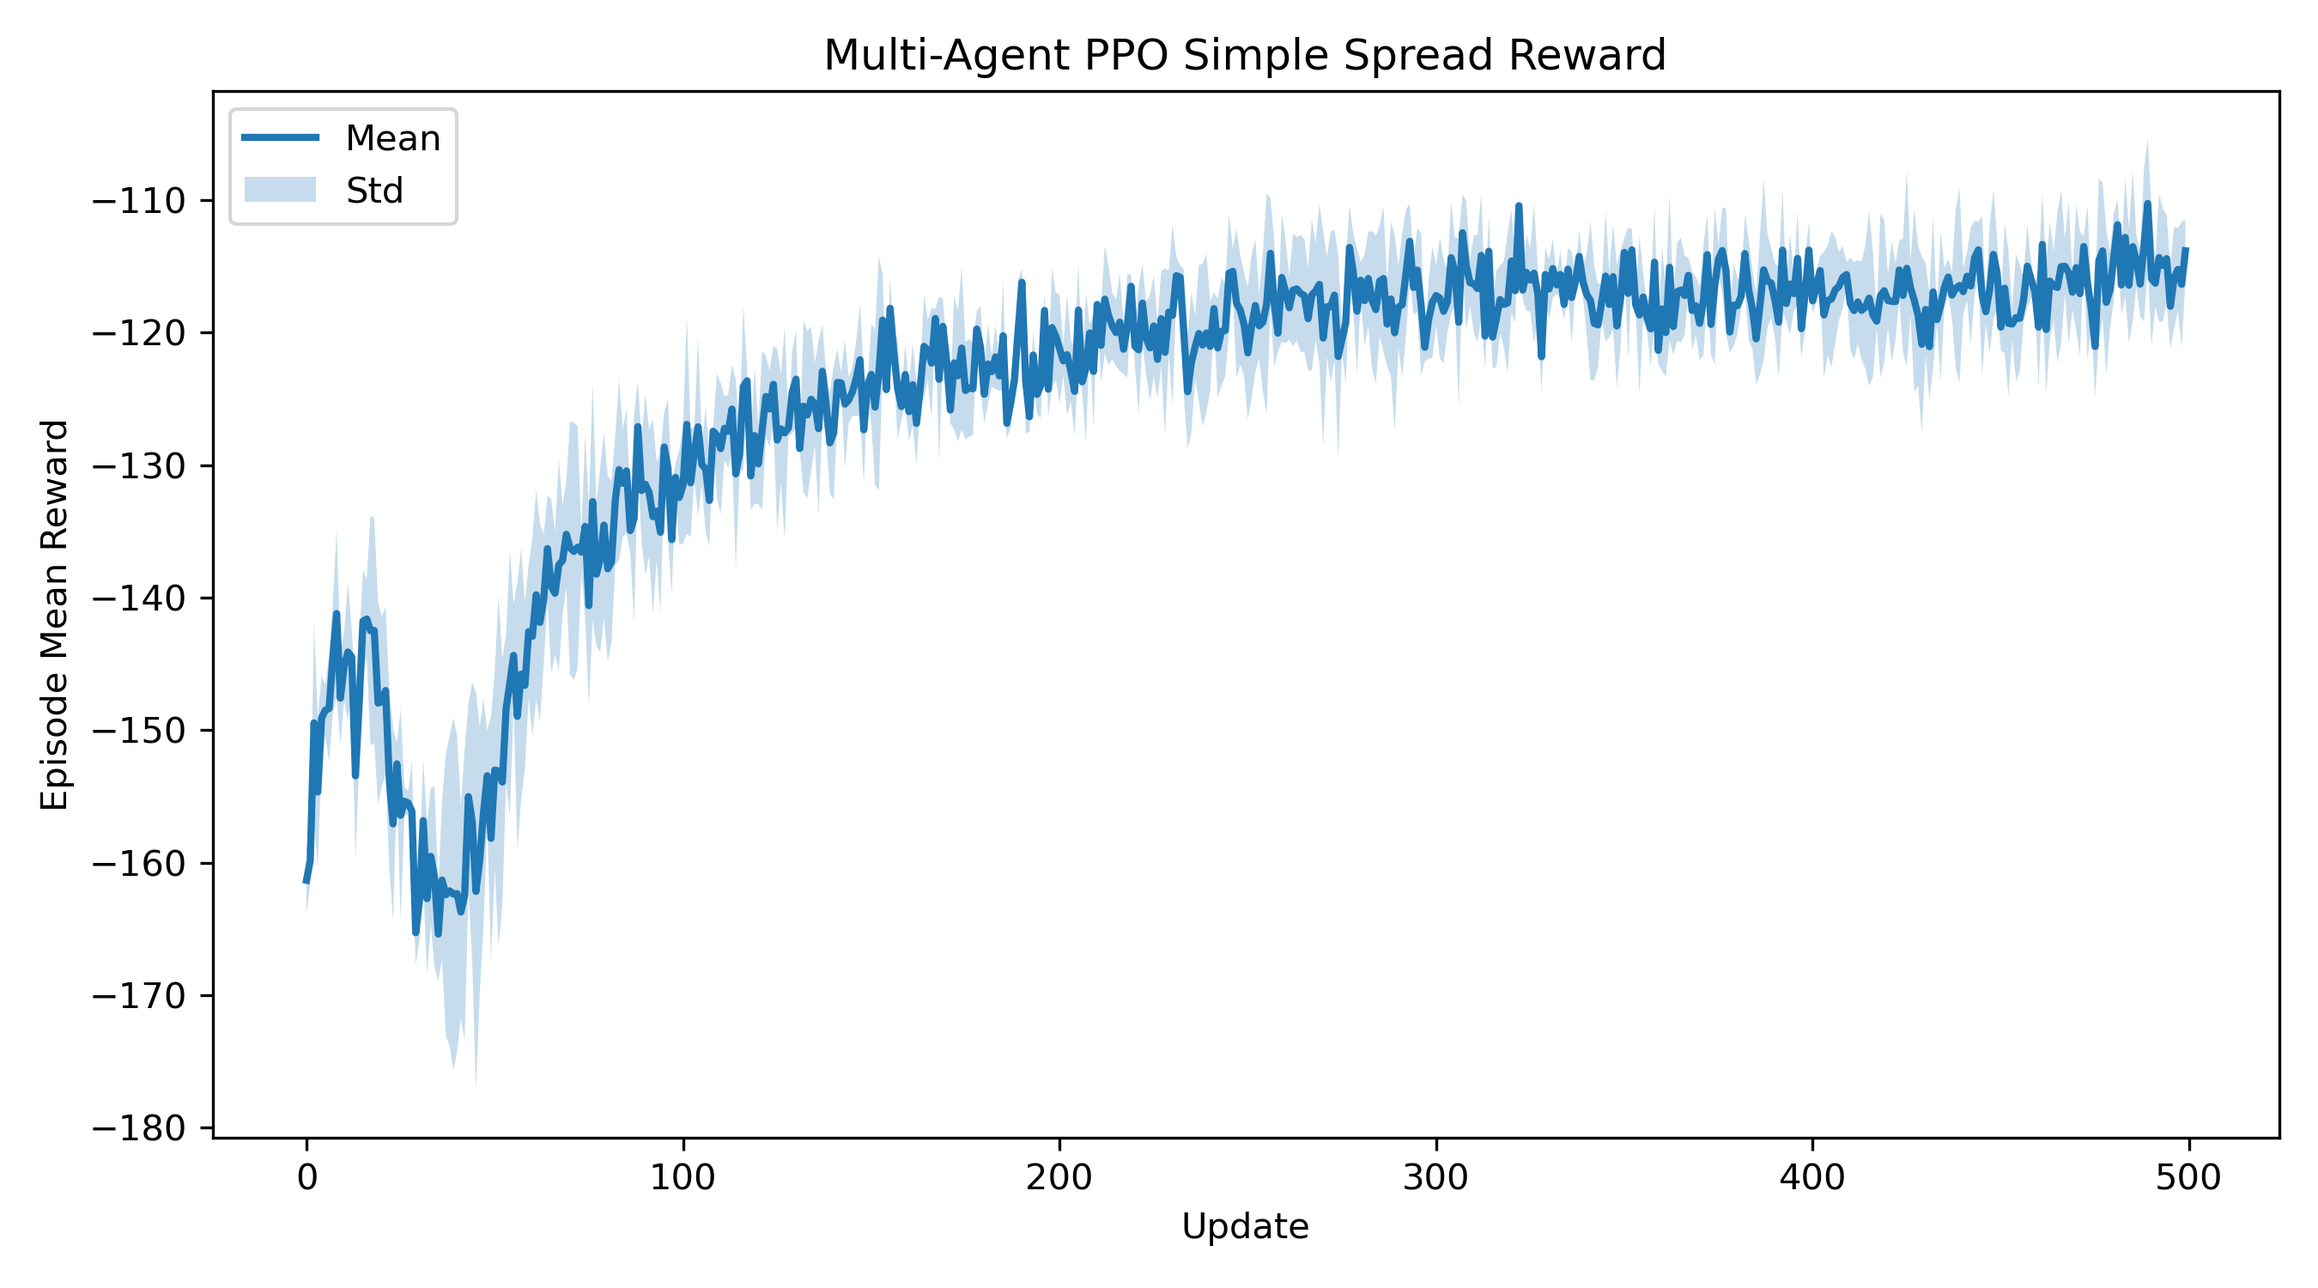
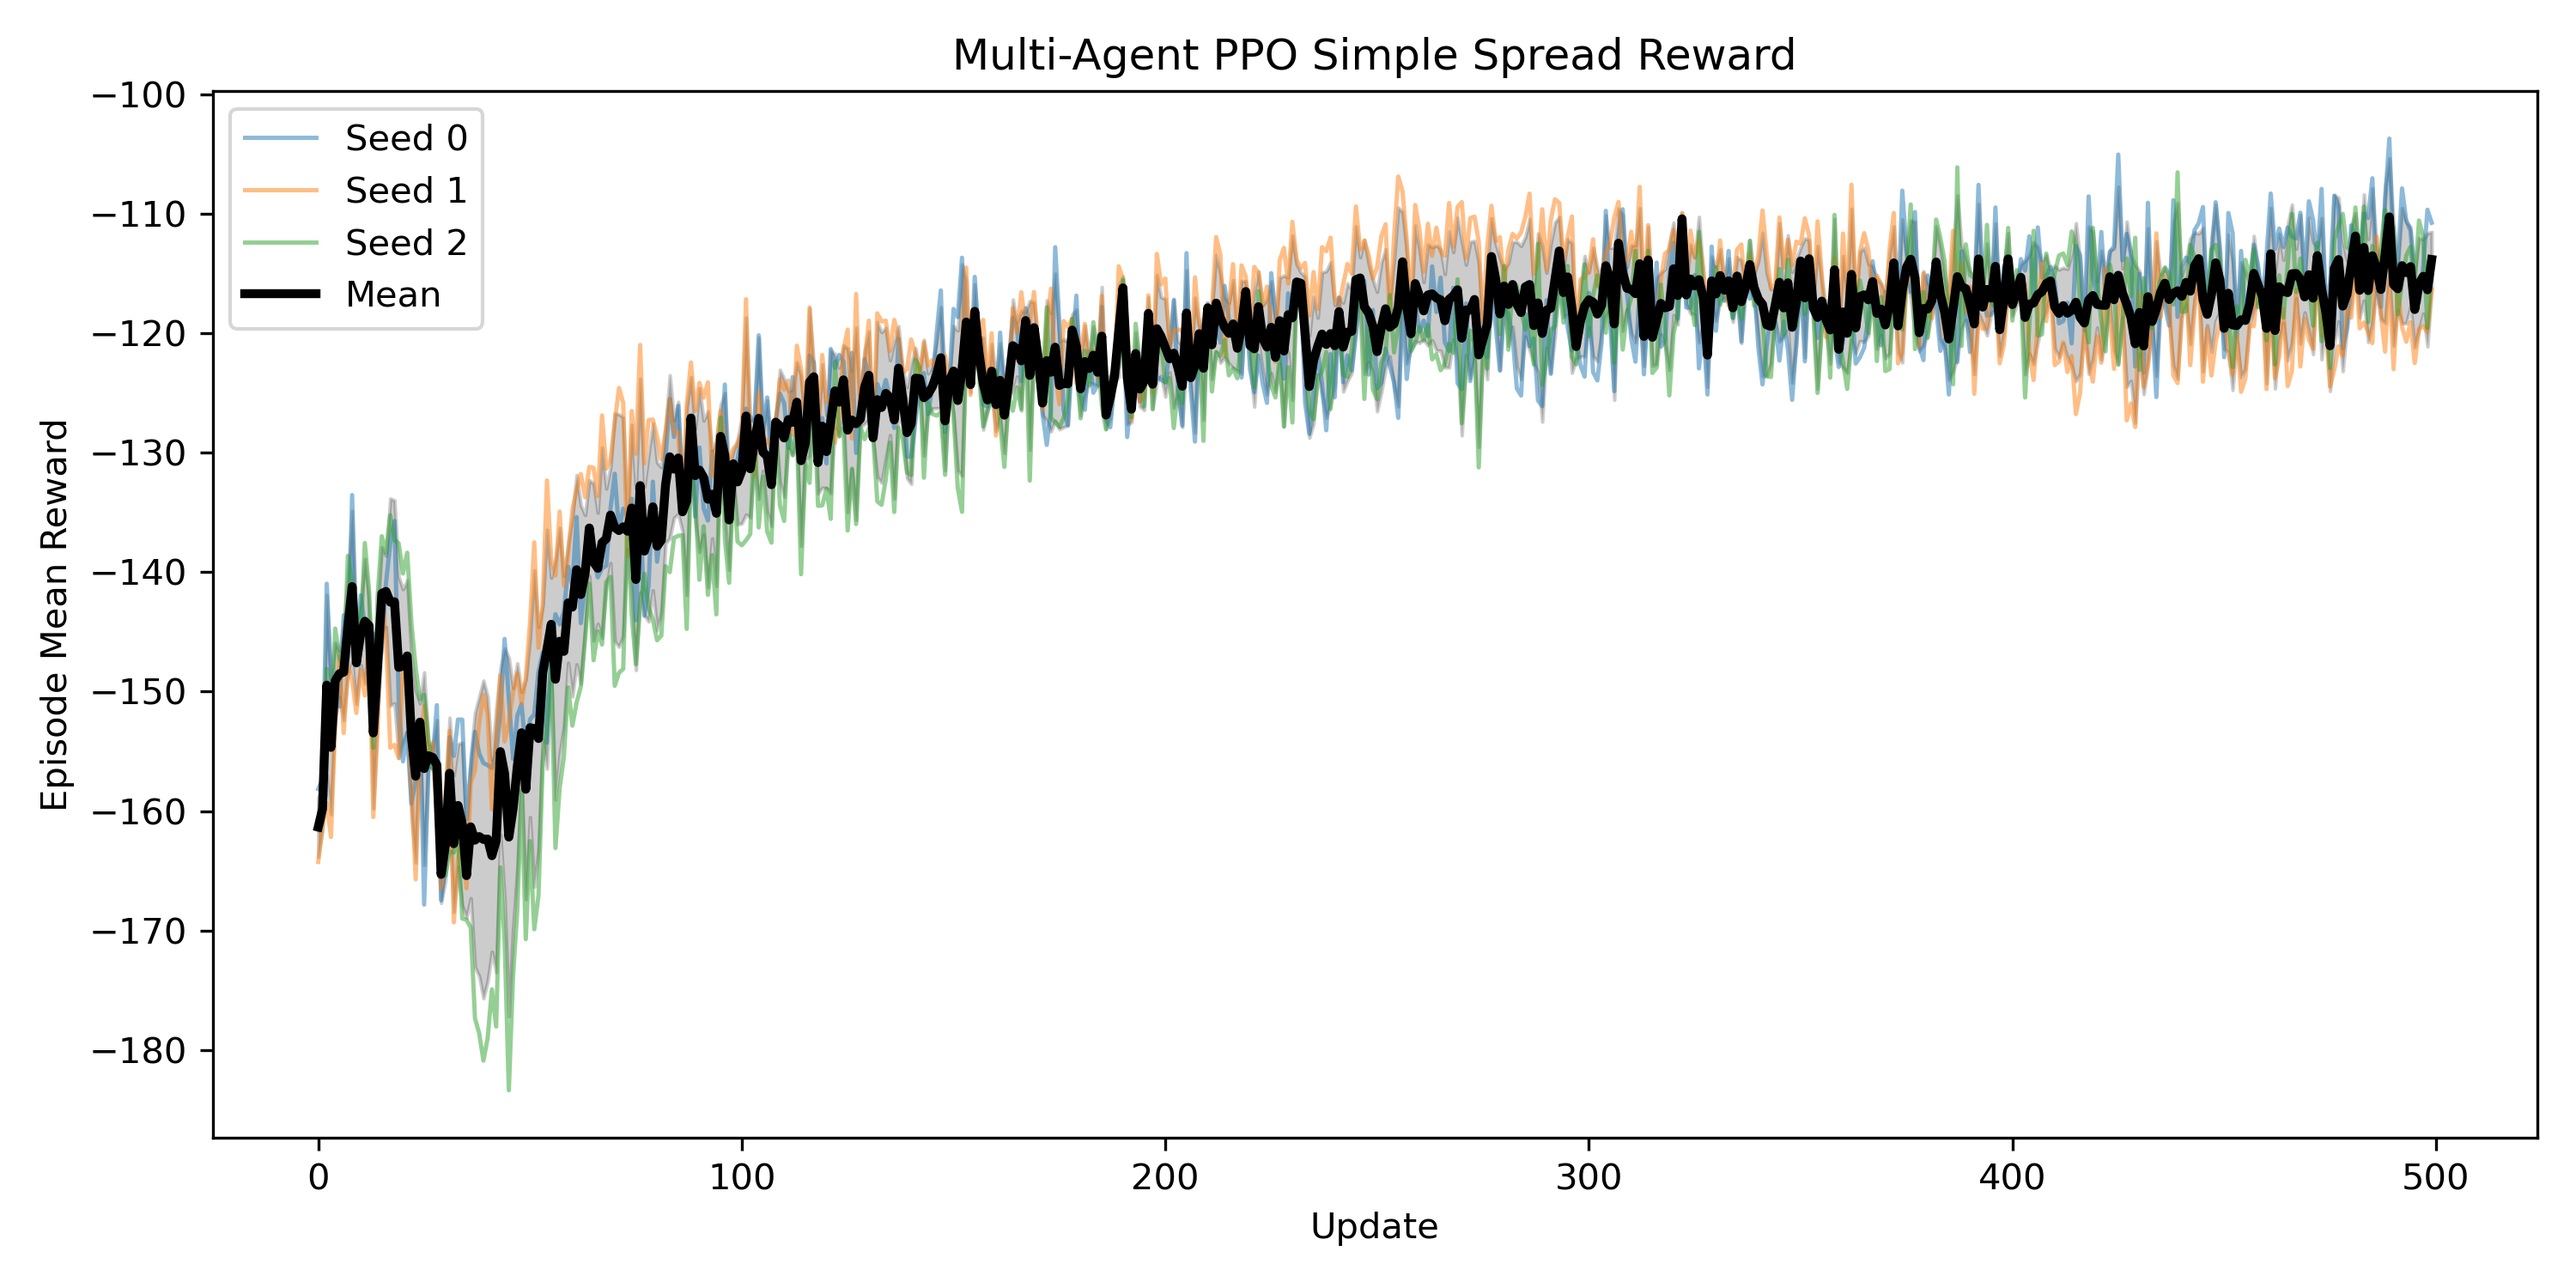
plots show all 3 seeds

diff --git a/ppo_simple_spread_adapted/plot.py b/ppo_simple_spread_adapted/plot.py
@@ -22,19 +22,32 @@ def load_runs(path):
 
 
 def plot_with_band(values, title, xlabel, ylabel, output_path, y_lim=None):
+    """
+    values shape: (num_seeds, num_updates)
+    """
+
+    x = np.arange(values.shape[1])
+
     mean = values.mean(axis=0)
     std = values.std(axis=0)
-    x = np.arange(len(mean))
 
-    # clamp for stability if this is success rate
-    if "Success" in title:
-        mean = np.clip(mean, 0, 1)
-        std = np.clip(std, 0, 1)
+    plt.figure(figsize=(10, 5))
 
-    plt.figure(figsize=(9, 5))
-    plt.plot(x, mean, linewidth=2, label="Mean")
-    plt.fill_between(x, mean - std, mean + std, alpha=0.25, label="Std")
+    # -------------------------
+    # Plot individual seeds
+    # -------------------------
+    for i in range(values.shape[0]):
+        plt.plot(x, values[i], linewidth=1.2, alpha=0.5, label=f"Seed {i}")
 
+    # -------------------------
+    # Mean + Std band
+    # -------------------------
+    plt.plot(x, mean, linewidth=2.5, label="Mean", color="black")
+    plt.fill_between(x, mean - std, mean + std, alpha=0.2, color="black")
+
+    # -------------------------
+    # Formatting
+    # -------------------------
     if y_lim is not None:
         plt.ylim(y_lim)
 
